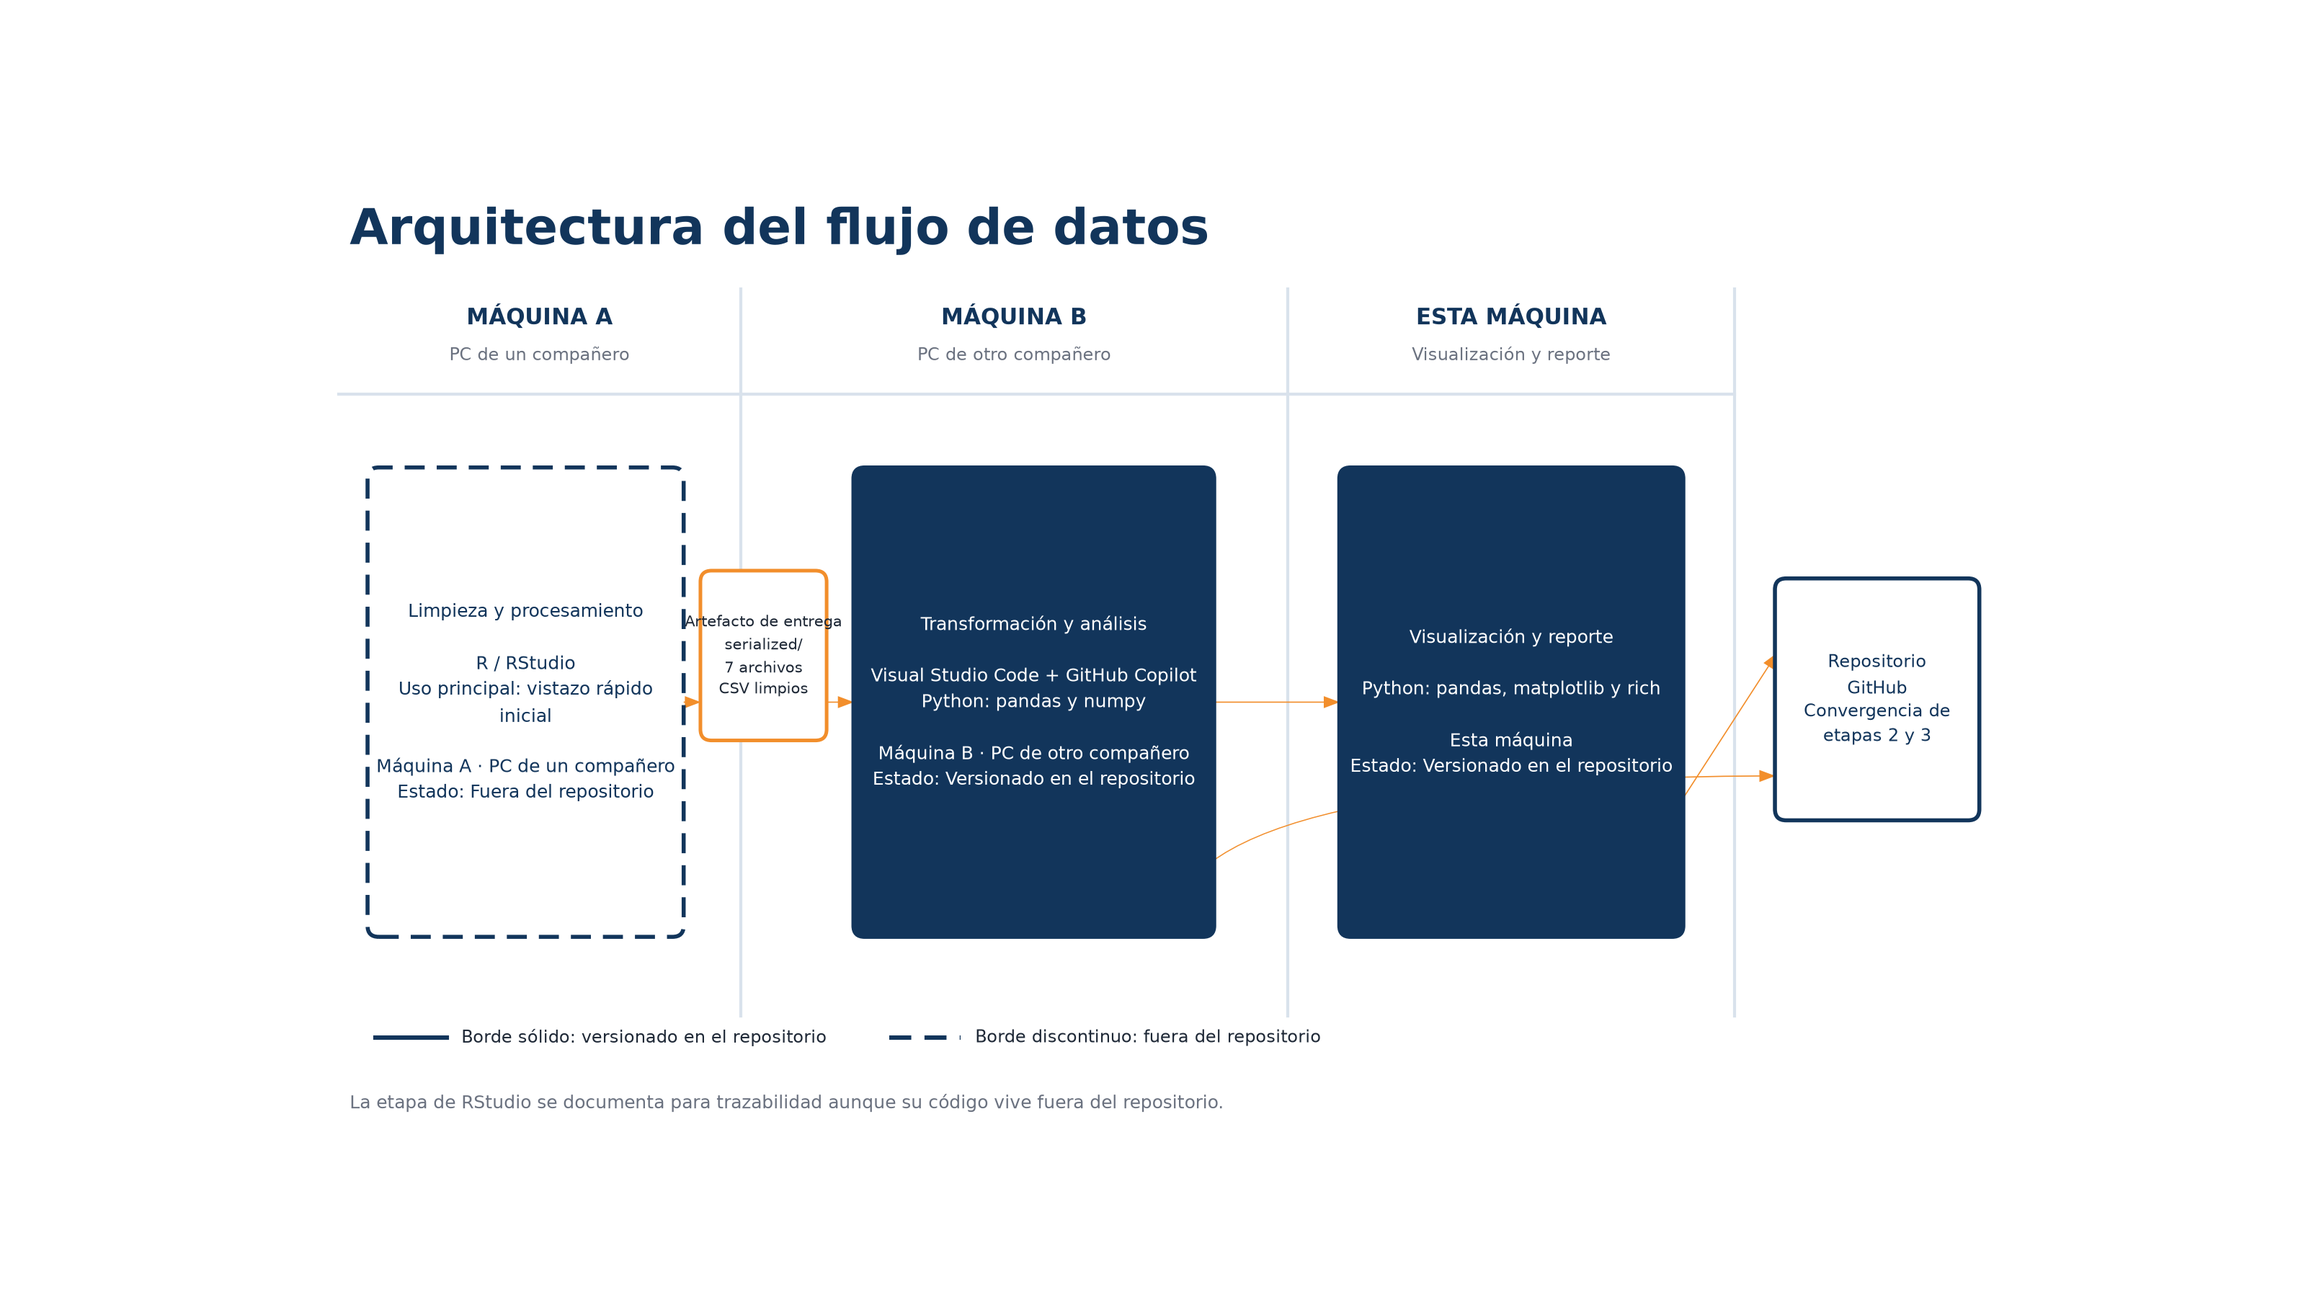
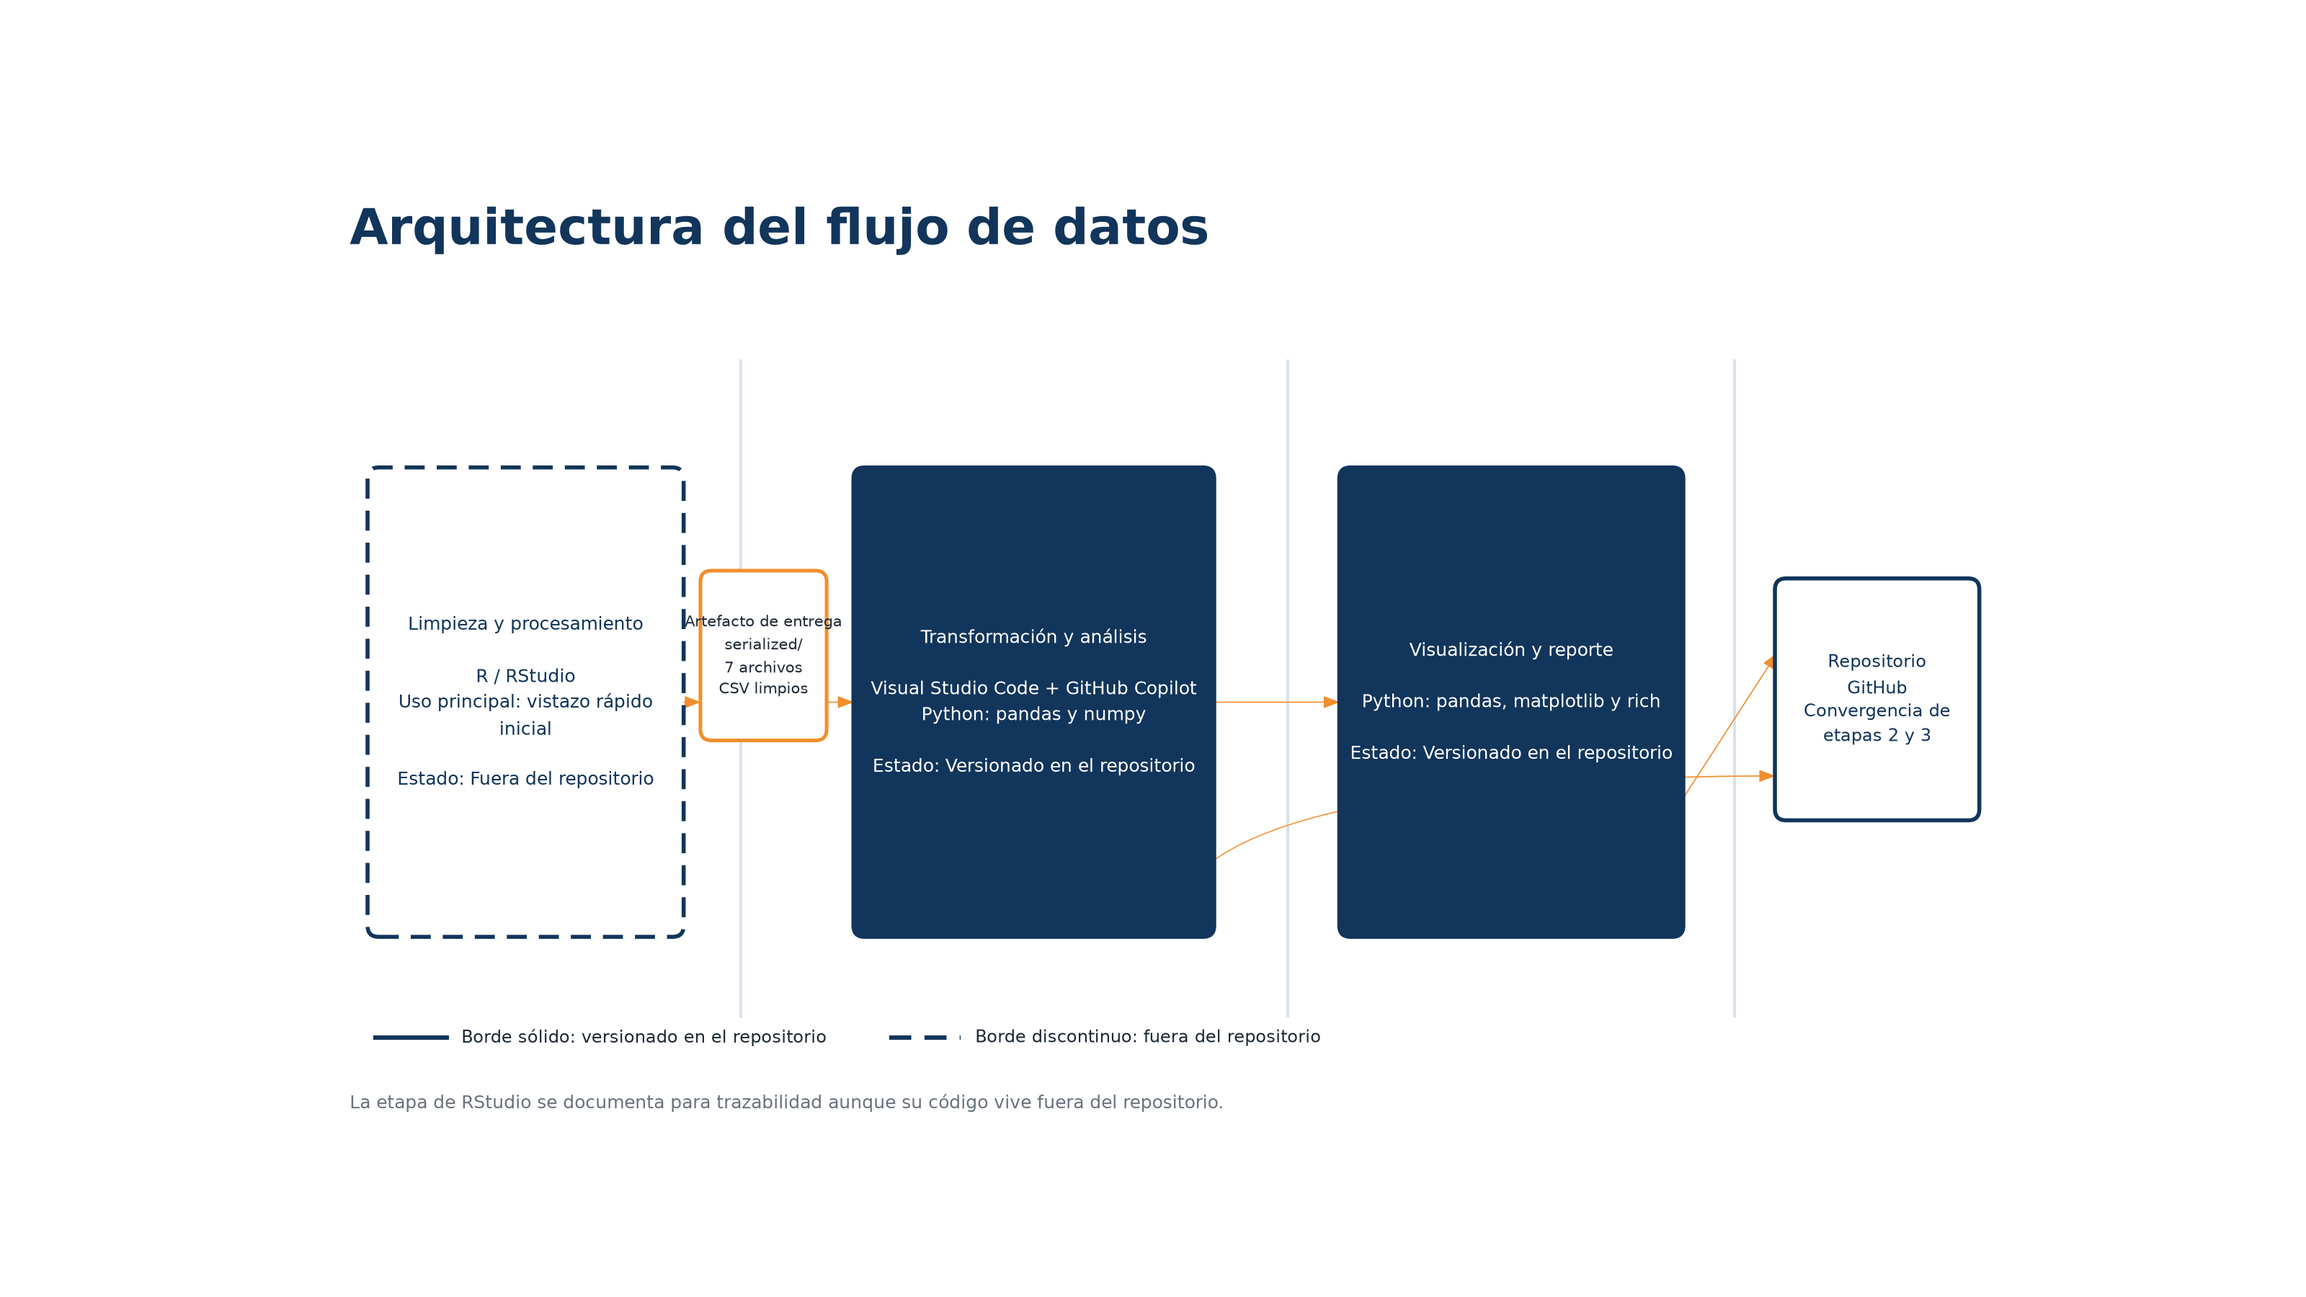
feat: unify presentation charts in Spanish

diff --git a/analysis/09_trend_and_variance.py b/analysis/09_trend_and_variance.py
@@ -1,66 +1,75 @@
-"""Cumulative performance with linear trend lines and variance visualization."""
-import pandas as pd
-import numpy as np
+"""Render cumulative performance and rolling-volatility presentation chart."""
+
+from pathlib import Path
+
 import matplotlib
 matplotlib.use("Agg")
 import matplotlib.pyplot as plt
-from pathlib import Path
+import numpy as np
+
 import clean
+from chart_style import NAVY, SERIES, TEXT_MUTED, add_note, configure, style_axis
+
 
 OUT = Path(__file__).resolve().parent
 FIG = OUT / "figures"
+PRESENTATION = OUT.parent / "outputs"
 
-px = clean.load_prices_daily()
-wide = px.pivot_table(index="date", columns="asset_id", values="close")
-cum = wide / wide.iloc[0]
-rets = wide.pct_change()
 
-x = np.arange(len(cum))  # trading-day index for regression
+def render():
+    configure()
+    prices = clean.load_prices_daily()
+    wide = prices.pivot_table(index="date", columns="asset_id", values="close")
+    cumulative = wide / wide.iloc[0] * 100
+    returns = wide.pct_change()
+    x = np.arange(len(cumulative))
 
-fig, (ax, axv) = plt.subplots(
-    2, 1, figsize=(13, 8.5), sharex=True,
-    gridspec_kw={"height_ratios": [3, 1.2], "hspace": 0.08})
+    fig, (ax_return, ax_volatility) = plt.subplots(
+        2, 1, figsize=(16, 9), dpi=200, sharex=True,
+        gridspec_kw={"height_ratios": [3.1, 1.35], "hspace": 0.12},
+    )
+    fig.subplots_adjust(left=0.08, right=0.88, top=0.90, bottom=0.10)
+    fig.suptitle("Rendimiento acumulado y volatilidad móvil", x=0.08, ha="left",
+                 color=NAVY, fontsize=22, fontweight="bold")
 
-colors = plt.cm.tab10.colors
-for i, c in enumerate(cum.columns):
-    y = cum[c].values
-    # linear trend on rebased cumulative
-    slope, intercept = np.polyfit(x, y, 1)
-    trend = slope * x + intercept
-    ann_vol = rets[c].std() * np.sqrt(252) * 100
-    slope_bp_day = slope * 100  # rebased units per day -> %
-    ax.plot(cum.index, y, lw=1.1, color=colors[i], alpha=0.85,
-            label=f"{c}  σ={ann_vol:.0f}%  trend={slope_bp_day:+.2f}%/d")
-    ax.plot(cum.index, trend, lw=1.6, ls="--", color=colors[i], alpha=0.9)
-    # end-of-line trend annotation
-    ax.annotate(f"{trend[-1]:.2f}", (cum.index[-1], trend[-1]),
-                textcoords="offset points", xytext=(5, 0), fontsize=7,
-                color=colors[i])
-    # rolling 21d annualized volatility (variance behavior)
-    roll_vol = rets[c].rolling(21).std() * np.sqrt(252) * 100
-    axv.plot(cum.index, roll_vol, lw=1.0, color=colors[i], alpha=0.85)
+    for index, asset in enumerate(cumulative.columns):
+        color = SERIES[index]
+        values = cumulative[asset].values
+        slope, intercept = np.polyfit(x, values, 1)
+        trend = slope * x + intercept
+        annual_volatility = returns[asset].std() * np.sqrt(252) * 100
+        ax_return.plot(cumulative.index, values, color=color, lw=1.8, label=asset, zorder=3)
+        ax_return.plot(cumulative.index, trend, color=color, lw=1.2, ls=(0, (4, 3)), alpha=0.72)
+        ax_return.annotate(
+            f"{asset}  {values[-1] - 100:+.0f}%",
+            (cumulative.index[-1], values[-1]), xytext=(7, 0),
+            textcoords="offset points", color=color, fontsize=8, va="center",
+            clip_on=False,
+        )
+        rolling_volatility = returns[asset].rolling(21).std() * np.sqrt(252) * 100
+        ax_volatility.plot(rolling_volatility.index, rolling_volatility, color=color,
+                           lw=1.55, label=f"{asset} · {annual_volatility:.0f}%")
 
-ax.axhline(1.0, color="k", lw=0.6, alpha=0.5)
-ax.set_title("Cumulative performance (rebased) with linear trend (dashed) — "
-             "legend shows annualized volatility σ and trend slope")
-ax.legend(ncol=2, fontsize=8, loc="upper left")
-ax.grid(alpha=0.3)
-ax.margins(x=0.03)
+    ax_return.axhline(100, color=TEXT_MUTED, lw=1, ls=(0, (2, 3)), zorder=1)
+    ax_return.set_ylabel("Índice base 100")
+    ax_return.set_title("Precio de cierre acumulado · línea discontinua: tendencia lineal",
+                        loc="left", fontsize=12, pad=10)
+    style_axis(ax_return)
+    ax_return.legend(ncol=4, loc="upper left", fontsize=9, title="Acciones")
 
-axv.set_ylabel("Roll. 21d vol (%)", fontsize=8)
-axv.set_xlabel("Date")
-axv.grid(alpha=0.3)
-axv.set_title("Variance behavior: 21-day rolling annualized volatility", fontsize=9)
+    ax_volatility.set_ylabel("Volatilidad anualizada (%)")
+    ax_volatility.set_title("Volatilidad móvil de 21 ruedas", loc="left", fontsize=12, pad=10)
+    ax_volatility.legend(ncol=4, loc="upper left", fontsize=8,
+                          title="Volatilidad del período")
+    style_axis(ax_volatility)
 
-fig.tight_layout()
-out = FIG / "09_cumulative_trend_variance.png"
-fig.savefig(out, dpi=110, bbox_inches="tight")
-plt.close(fig)
-print(f"Saved -> {out}")
+    add_note(fig, "Fuente: precios diarios limpios. Las etiquetas finales muestran el rendimiento acumulado.")
+    for path in (FIG / "09_cumulative_trend_variance.png", PRESENTATION / "rendimiento_volatilidad.png"):
+        path.parent.mkdir(parents=True, exist_ok=True)
+        fig.savefig(path, dpi=200)
+    plt.close(fig)
+    print("Gráficas guardadas: 09_cumulative_trend_variance.png y rendimiento_volatilidad.png")
 
-# print trend + variance summary table
-print("\nasset  ann_vol_%  trend_%/day  trend_total_(end value)")
-for i, c in enumerate(cum.columns):
-    y = cum[c].values
-    slope, intercept = np.polyfit(x, y, 1)
-    print(f"{c}  {rets[c].std()*np.sqrt(252)*100:6.1f}  {slope*100:+8.3f}  {(slope*x[-1]+intercept):8.2f}")
+
+if __name__ == "__main__":
+    render()

diff --git a/analysis/14_presentation_charts.py b/analysis/14_presentation_charts.py
@@ -1,0 +1,117 @@
+"""Render presentation-ready macro and event-cut charts."""
+
+from pathlib import Path
+
+import matplotlib
+matplotlib.use("Agg")
+import matplotlib.dates as mdates
+import matplotlib.pyplot as plt
+import pandas as pd
+
+import clean
+from chart_style import (GRID, NAVY, ORANGE, SERIES, TEXT, TEXT_MUTED, add_note,
+                         configure, style_axis)
+
+
+OUT = Path(__file__).resolve().parent
+PRESENTATION = OUT.parent / "outputs"
+EVENT_CUTS = [
+    ("VF_A02", pd.Timestamp("2025-08-21"), "A02 · 21 ago. 2025"),
+    ("VF_A02", pd.Timestamp("2026-01-10"), "A02 · 10 ene. 2026"),
+    ("VF_A03", pd.Timestamp("2026-04-06"), "A03 · 6 abr. 2026"),
+    ("VF_A04", pd.Timestamp("2026-05-18"), "A04 · 18 may. 2026"),
+    ("VF_A07", pd.Timestamp("2026-06-08"), "A07 · 8 jun. 2026"),
+]
+
+
+def render_inflation_and_fx():
+    configure()
+    macro = clean.load_macro().set_index("date")
+    raw_macro = pd.read_csv(OUT.parent / "dataset_start" / "02_macro_raw.csv", encoding="utf-8-sig")
+    raw_macro["date"] = pd.to_datetime(raw_macro["date"])
+    inflation = raw_macro.dropna(subset=["us_inflation_yoy"]).set_index("date")["us_inflation_yoy"]
+    fx_columns = [("usd_cop", "COP"), ("usd_pen", "PEN"), ("usd_mxn", "MXN"), ("usd_clp", "CLP")]
+
+    fig, (ax_inflation, ax_fx) = plt.subplots(2, 1, figsize=(16, 9), dpi=200,
+                                                gridspec_kw={"height_ratios": [1, 1.25], "hspace": 0.34})
+    fig.subplots_adjust(left=0.08, right=0.92, top=0.90, bottom=0.10)
+    fig.suptitle("Inflación y tipos de cambio frente al dólar", x=0.08, ha="left",
+                 color=NAVY, fontsize=22, fontweight="bold")
+
+    ax_inflation.step(inflation.index, inflation, where="post", color=ORANGE, lw=2.8,
+                      label="Inflación anual de EE. UU.")
+    ax_inflation.set_ylabel("Inflación anual (%)")
+    ax_inflation.set_title("Inflación de EE. UU. y USD/COP", loc="left", fontsize=12, pad=10)
+    style_axis(ax_inflation)
+    fx_twin = ax_inflation.twinx()
+    fx_twin.plot(macro.index, macro["usd_cop"], color=NAVY, lw=1.8, label="USD/COP")
+    fx_twin.set_ylabel("Pesos colombianos por USD", color=NAVY)
+    fx_twin.tick_params(axis="y", colors=NAVY)
+    fx_twin.spines["top"].set_visible(False)
+    lines = ax_inflation.get_lines() + fx_twin.get_lines()
+    ax_inflation.legend(lines, [line.get_label() for line in lines], loc="upper left")
+
+    for index, (column, label) in enumerate(fx_columns):
+        rebased = macro[column] / macro[column].iloc[0] * 100
+        ax_fx.plot(rebased.index, rebased, color=SERIES[index], lw=2.1,
+                   label=f"USD/{label}")
+    ax_fx.axhline(100, color=TEXT_MUTED, lw=1, ls=(0, (2, 3)))
+    ax_fx.set_ylabel("Índice base 100")
+    ax_fx.set_title("Evolución acumulada de las monedas · un aumento indica debilitamiento frente al USD",
+                    loc="left", fontsize=12, pad=10)
+    ax_fx.legend(ncol=4, loc="upper left")
+    style_axis(ax_fx)
+    add_note(fig, "Fuente: serie macroeconómica diaria. La inflación es mensual y se muestra en sus fechas publicadas.")
+
+    path = PRESENTATION / "inflacion_tipo_cambio.png"
+    path.parent.mkdir(parents=True, exist_ok=True)
+    fig.savefig(path, dpi=200)
+    plt.close(fig)
+    print("Gráfica guardada: inflacion_tipo_cambio.png")
+
+
+def render_selected_assets_with_cuts():
+    configure()
+    prices = clean.load_prices_daily()
+    wide = prices.pivot_table(index="date", columns="asset_id", values="close")
+    selected = ["VF_A02", "VF_A03", "VF_A04", "VF_A07"]
+    rebased = wide[selected] / wide[selected].iloc[0] * 100
+    colors = {asset: SERIES[index + 1] for index, asset in enumerate(selected)}
+
+    fig, ax = plt.subplots(figsize=(16, 9), dpi=200)
+    fig.subplots_adjust(left=0.08, right=0.94, top=0.88, bottom=0.12)
+    fig.suptitle("Acciones seleccionadas y fechas de corte", x=0.08, ha="left",
+                 color=NAVY, fontsize=22, fontweight="bold")
+
+    for asset in selected:
+        ax.plot(rebased.index, rebased[asset], color=colors[asset], lw=2.2, label=asset, zorder=3)
+    ax.axhline(100, color=TEXT_MUTED, lw=1, ls=(0, (2, 3)), zorder=1)
+
+    top = 0.98
+    for index, (asset, date, label) in enumerate(EVENT_CUTS):
+        ax.axvline(date, color=ORANGE, lw=1.45, ls=(0, (4, 3)), zorder=2)
+        ax.annotate(
+            label, xy=(date, top - (index % 2) * 0.095), xycoords=("data", "axes fraction"),
+            xytext=(4, 0), textcoords="offset points", rotation=90,
+            color=TEXT, fontsize=8.5, va="top", ha="left",
+            bbox={"boxstyle": "round,pad=0.18", "facecolor": "white", "edgecolor": GRID},
+        )
+
+    ax.set_ylabel("Índice base 100")
+    ax.set_title("Precio de cierre acumulado · cortes solicitados", loc="left", fontsize=12, pad=10)
+    ax.legend(ncol=4, loc="lower left")
+    ax.xaxis.set_major_locator(mdates.MonthLocator(interval=2))
+    ax.xaxis.set_major_formatter(mdates.DateFormatter("%b\n%Y"))
+    style_axis(ax)
+    add_note(fig, "Fuente: precios diarios limpios. El corte del 10-ene-2026 se muestra como fecha de calendario, aunque no hubo rueda.")
+
+    path = PRESENTATION / "acciones_cortes.png"
+    path.parent.mkdir(parents=True, exist_ok=True)
+    fig.savefig(path, dpi=200)
+    plt.close(fig)
+    print("Gráfica guardada: acciones_cortes.png")
+
+
+if __name__ == "__main__":
+    render_inflation_and_fx()
+    render_selected_assets_with_cuts()

diff --git a/arquitectura.py b/arquitectura.py
@@ -13,7 +13,7 @@ STAGES = [
         "id": "rstudio",
         "name": "Limpieza y procesamiento",
         "tools": "R / RStudio\nUso principal: vistazo rápido\ninicial",
-        "machine": "Máquina A · PC de un compañero",
+        "machine": "",
         "status": "Fuera del repositorio",
         "versioned": False,
         "x": 0.75,
@@ -25,7 +25,7 @@ STAGES = [
         "id": "analysis",
         "name": "Transformación y análisis",
         "tools": "Visual Studio Code + GitHub Copilot\nPython: pandas y numpy",
-        "machine": "Máquina B · PC de otro compañero",
+        "machine": "",
         "status": "Versionado en el repositorio",
         "versioned": True,
         "x": 5.10,
@@ -37,7 +37,7 @@ STAGES = [
         "id": "reporting",
         "name": "Visualización y reporte",
         "tools": "Python: pandas, matplotlib y rich",
-        "machine": "Esta máquina",
+        "machine": "",
         "status": "Versionado en el repositorio",
         "versioned": True,
         "x": 9.45,
@@ -62,13 +62,6 @@ REPOSITORY = {
     "width": 1.75,
     "height": 2.10,
 }
-
-LANES = [
-    (0.45, 4.05, "MÁQUINA A", "PC de un compañero"),
-    (4.05, 8.95, "MÁQUINA B", "PC de otro compañero"),
-    (8.95, 12.95, "ESTA MÁQUINA", "Visualización y reporte"),
-]
-
 
 def add_box(ax, x, y, width, height, label, *, fill, edge, dashed=False, text_color=TEXT,
             font_size=10, line_width=2.0):
@@ -110,7 +103,7 @@ def draw_stage(ax, stage):
         fill, edge, text_color, dashed = WHITE, NAVY, NAVY, True
     label = (
         f"{stage['name']}\n\n{stage['tools']}\n\n"
-        f"{stage['machine']}\nEstado: {stage['status']}"
+        f"Estado: {stage['status']}"
     )
     add_box(
         ax, stage["x"], stage["y"], stage["width"], stage["height"], label,
@@ -129,15 +122,8 @@ def render(output_path):
     ax.text(0.55, 8.32, "Arquitectura del flujo de datos", color=NAVY,
             fontsize=25, fontweight="bold", ha="left", va="center")
 
-    for left, right, title, subtitle in LANES:
-        ax.text((left + right) / 2, 7.55, title, color=NAVY, fontsize=11,
-                fontweight="bold", ha="center", va="center")
-        ax.text((left + right) / 2, 7.20, subtitle, color=TEXT_MUTED, fontsize=8.5,
-                ha="center", va="center")
-        ax.plot([left, right], [6.85, 6.85], color=GRID, linewidth=1.5, zorder=1)
-
     for x in (4.05, 8.95, 12.95):
-        ax.plot([x, x], [1.25, 7.80], color=GRID, linewidth=1.5, zorder=1)
+        ax.plot([x, x], [1.25, 7.15], color=GRID, linewidth=1.5, zorder=1)
 
     for stage in STAGES:
         draw_stage(ax, stage)

diff --git a/analysis/chart_style.py b/analysis/chart_style.py
@@ -1,0 +1,44 @@
+"""Shared presentation chart styling."""
+
+import sys
+from pathlib import Path
+
+import matplotlib as mpl
+
+ROOT = Path(__file__).resolve().parents[1]
+if str(ROOT) not in sys.path:
+    sys.path.insert(0, str(ROOT))
+
+from brand import GRID, NAVY, ORANGE, SERIES, TEXT, TEXT_MUTED, WHITE
+
+
+def configure():
+    mpl.rcParams.update({
+        "figure.facecolor": WHITE,
+        "axes.facecolor": WHITE,
+        "savefig.facecolor": WHITE,
+        "font.family": "DejaVu Sans",
+        "font.size": 10,
+        "axes.titleweight": "bold",
+        "axes.titlecolor": NAVY,
+        "axes.labelcolor": TEXT,
+        "xtick.color": TEXT_MUTED,
+        "ytick.color": TEXT_MUTED,
+        "axes.edgecolor": GRID,
+        "axes.linewidth": 0.8,
+        "grid.color": GRID,
+        "grid.linewidth": 0.7,
+        "grid.alpha": 0.85,
+        "legend.frameon": False,
+        "legend.labelcolor": TEXT,
+    })
+
+
+def style_axis(ax, *, grid_axis="both"):
+    ax.grid(True, axis=grid_axis, zorder=0)
+    ax.spines["top"].set_visible(False)
+    ax.spines["right"].set_visible(False)
+
+
+def add_note(fig, text):
+    fig.text(0.08, 0.025, text, color=TEXT_MUTED, fontsize=9, ha="left")

diff --git a/brand.py b/brand.py
@@ -6,3 +6,11 @@ GRID = "#D9E2EC"
 WHITE = "#FFFFFF"
 TEXT = "#1F2937"
 TEXT_MUTED = "#6B7280"
+BLUE = "#2F6B9A"
+TEAL = "#2A9D8F"
+GREEN = "#5A9A3A"
+RED = "#C84D4D"
+PURPLE = "#8064C2"
+ROSE = "#C86B9A"
+SLATE = "#73808C"
+SERIES = (BLUE, ORANGE, GREEN, RED, PURPLE, "#8A6A5A", ROSE, SLATE)

diff --git a/README.md b/README.md
@@ -4,17 +4,17 @@
 
 ```mermaid
 flowchart LR
-    subgraph MA["Máquina A · PC de un compañero"]
+    subgraph MA["Etapa inicial"]
         A["Limpieza y procesamiento<br/>R / RStudio<br/>Uso principal: vistazo rápido inicial<br/>Estado: Fuera del repositorio"]
     end
 
     H["Artefacto de entrega<br/>serialized/<br/>7 archivos CSV limpios"]
 
-    subgraph MB["Máquina B · PC de otro compañero"]
+    subgraph MB["Etapa de análisis"]
         B["Transformación y análisis<br/>Visual Studio Code + GitHub Copilot<br/>Python: pandas y numpy<br/>Estado: Versionado en el repositorio"]
     end
 
-    subgraph MC["Esta máquina"]
+    subgraph MC["Etapa de reporte"]
         C["Visualización y reporte<br/>Python: pandas, matplotlib y rich<br/>Estado: Versionado en el repositorio"]
     end
 
